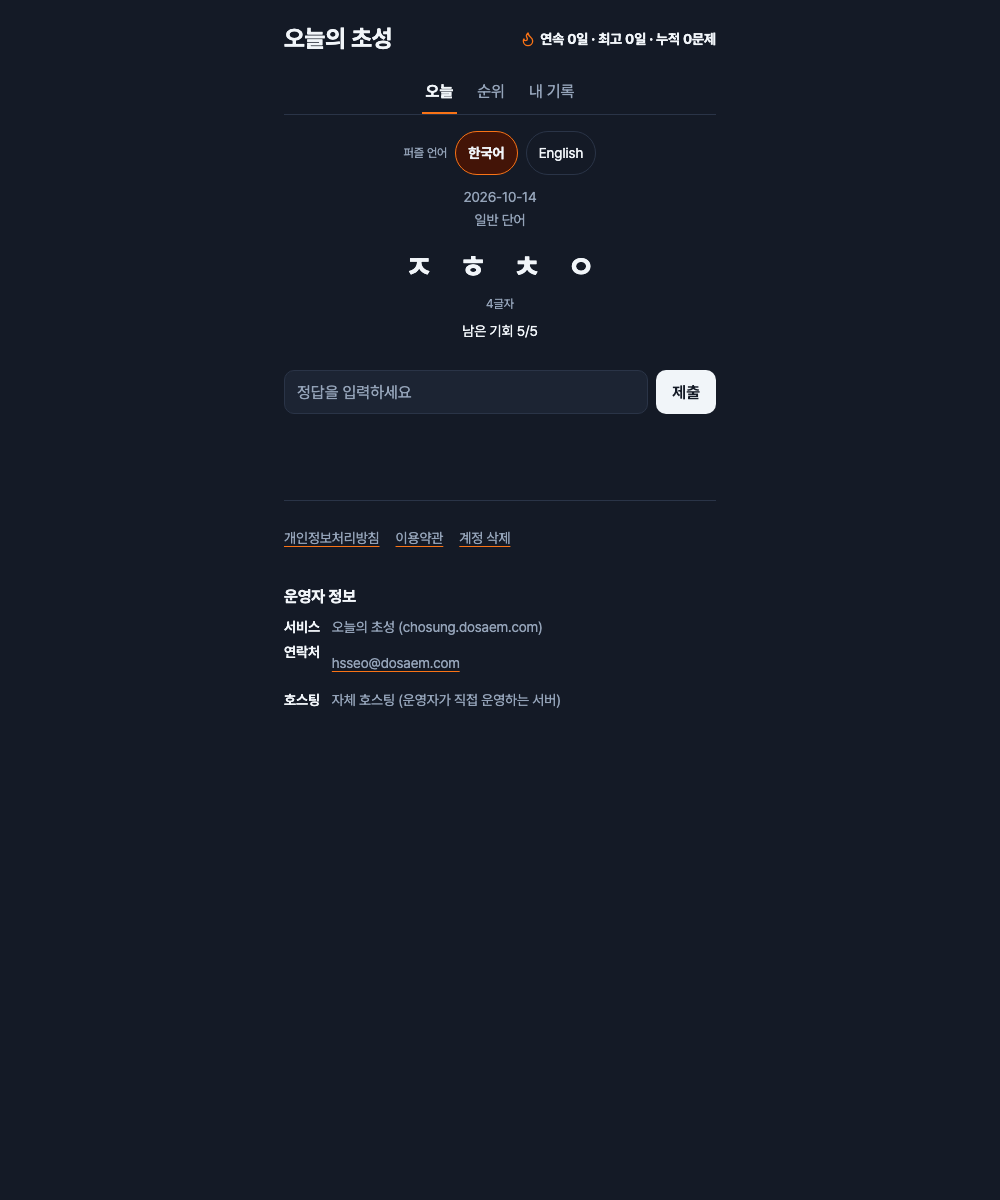
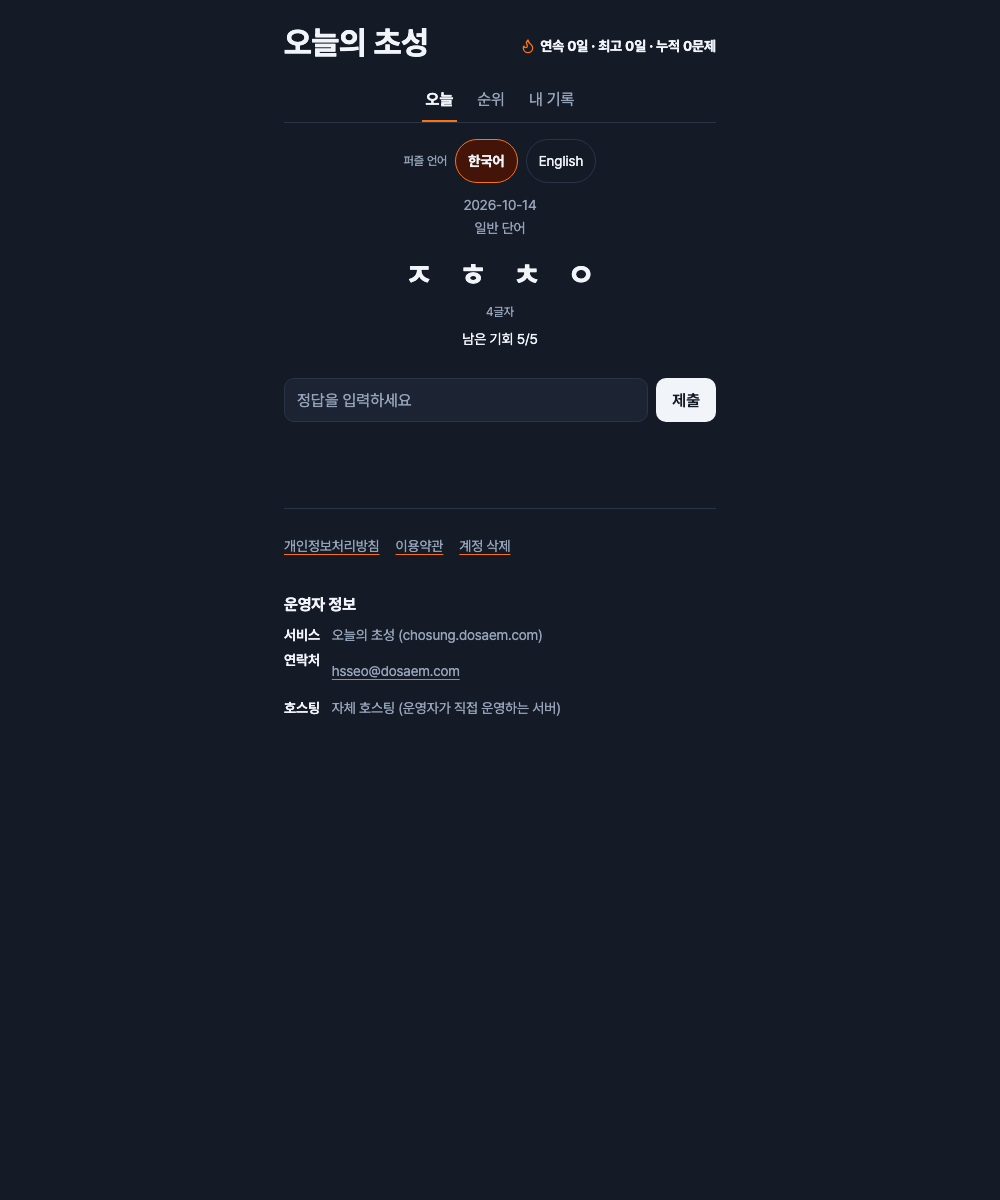
docs(18): 설계 판단·수동 체크리스트·출시 전 값 + 구현 증거
- README "### 18." 설계 판단: 다크 전용 CSS 를 안 쓰는 이유, 클래스 이름 =
  토큰 이름, 상태 카드를 하나로 둔 이유, 오프라인 판정이 둘을 보는 이유,
  KST 고정 오프셋 카운트다운, 섹션 토글이 버튼인 이유, 스토어 값이 비면
  아무것도 안 그리는 이유, 푸터가 16 의 조각만 include 하는 이유.
- README "웹 수동 체크리스트" 에 12~20 행 추가(섹션 토글·스켈레톤·오프라인·
  퍼즐 없음 카운트다운·앱 CTA·삭제 후 새 게스트 발급·다크모드·공유 텍스트·
  푸터). "티켓 18 범위라 아직 없다" 주석 제거.
- docs/RELEASE.md "### 18.": 스토어 URL·앱 ID·공식 배지 아트워크·공유 링크
  도메인 확인 체크박스.
- review/impl-evidence-18.md: 체크박스별 근거 표, 전체 스위트 1294 passed,
  ruff, impeccable detect 8회(라이트/다크 × ko/en + 모바일 폭) 0건과 대조군,
  헤드리스 스크린샷 2장, 역변이 확인 5건, 범위에서 뺀 것.
- review/detect-snapshot-18.py: 숨은 상태를 펼치고 다크 토큰을 올린 detect 판
  생성/정리. review/web-shots-18.mjs: CDP 로 라이트/다크 스크린샷.

디자인 훅이 잡은 flat-type-hierarchy 를 제목 24 → 32(`--font-size-2xl`)로
고쳐 1.6 배 / 1.25 배 단계를 만들었다. 스크린샷은 고친 뒤의 것이다.

diff --git a/web/static/style.css b/web/static/style.css
@@ -87,11 +87,14 @@ body:lang(en) {
   margin-bottom: var(--space-4);
 }
 
+/* 제목은 스케일의 맨 위(32)다. 24 로 두면 섹션 제목(20)과 1.2 배라 단계가 사실상
+   평평해지고(`impeccable` 디자인 훅의 flat-type-hierarchy), Editorial Light 는
+   타이포가 주인공인 방향이다 — 법적 문서 페이지의 `.doc-title` 도 같은 토큰이다. */
 .header h1 {
   margin: 0;
-  font-size: var(--font-size-xl);
+  font-size: var(--font-size-2xl);
   font-weight: 700;
-  line-height: 1.25;
+  line-height: 1.2;
 }
 
 /* 스트릭 글자는 `foreground` 다 — brand 를 글자색으로 쓰면 흰 면 위에서 3.6:1 로

diff --git a/web/templates/index.html b/web/templates/index.html
@@ -66,7 +66,7 @@
       </button>
     </nav>
 
-    <section class="section" data-section-panel="today">
+    <section id="today-section" class="section" data-section-panel="today">
       {# 퍼즐 언어 칩. UI 언어와 별개로, 어떤 언어의 문제를 풀지 고른다. #}
       <section class="language-chips" aria-label="{{ t.puzzle_language_label }}">
         <span class="language-label">{{ t.puzzle_language_label }}</span>

diff --git a/tests/test_web_design.py b/tests/test_web_design.py
@@ -17,7 +17,6 @@ import pytest
 
 REPO_ROOT = Path(__file__).resolve().parent.parent
 STYLE_CSS = REPO_ROOT / "web" / "static" / "style.css"
-TEMPLATE = REPO_ROOT / "web" / "templates" / "index.html"
 
 
 @pytest.fixture(scope="module")

diff --git a/review/impl-evidence-18.md b/review/impl-evidence-18.md
@@ -1,0 +1,236 @@
+# 티켓 18 구현 증거 — 웹 디자인 토큰 교체·다크모드·상태 4종·섹션 토글·앱 CTA·Smart App Banner·법적 링크
+
+- 브랜치: `dosaem/t18-web-design-cta-smart-banner`, 로컬 `main` = `055b56c`
+  "Merge 티켓 26" 위로 rebase(충돌 없음).
+- 커밋 2개: 구현+테스트 / 문서·증거 (`git log --oneline main..HEAD`).
+- 전용 테스트 자원: `TEST_DATABASE_URL=...chosung_daily_test_t18`,
+  `TEST_REDIS_URL=redis://localhost:6379/6`,
+  `TEST_MIGRATION_DATABASE_URL=...chosung_daily_test_t18_migrations`.
+  공용 테스트 DB(`chosung_daily_test`)·Redis DB 1 은 건드리지 않았다. 다른 워커의
+  컨테이너도 내리지 않았다(기존 `chosung-daily-mysql-1`·`-redis-1` 을 그대로 썼다).
+- 마이그레이션 없음(스키마 변경 없음). `flask db heads` = `d7a1f0ca0a29 (head)` 1줄.
+- 프로덕션에 닿는 행동 없음: `git push` 없음, 외부 서비스(Slack·Apple·Google·스토어·
+  AdMob) 호출 없음, `.env*` 미수정, 시크릿 값 없음. 스토어 링크·앱 ID 는 검증용
+  자리표시자(`id0000000000` 등)만 썼다.
+- 디스크: Flutter·네이티브 빌드 산출물을 만들지 않았다(웹 전용 티켓).
+
+## 1. 체크박스별 근거
+
+| 티켓 체크박스 | 무엇이 증명하는가 |
+|---|---|
+| 토큰 CSS 로 교체 — `primary-button`·`tile-empty`·`tile-correct` 토큰 이름 그대로, 그림자 없음, 480px 중앙 정렬, 다크모드 자동 | `tests/test_web_design.py::test_style_sheet_has_no_hex_colors_left`(파일 전체 hex 0개), `::test_style_sheet_has_no_shadows`, `::test_style_sheet_does_not_pin_its_own_color_scheme`, `::test_card_width_comes_from_the_shared_token`(`--content-max-width`, `420px` 없음), `::test_token_named_classes_use_the_token_of_the_same_name`(4건 parametrize), `::test_page_loads_the_pretendard_web_font` + §4 detect 라이트/다크 0건 + §5 스크린샷 2장 |
+| 상태 4종 — 스켈레톤·인라인 재시도·오프라인 배너(`navigator.onLine` + 요청 실패)·퍼즐 없음 카운트다운, 피드백 타일 색 + 아이콘/굵기 | 마크업: `::test_skeleton_is_rendered_before_the_puzzle_arrives`, `::test_offline_banner_sits_above_the_card`, `::test_inline_state_card_carries_a_retry_button_and_a_countdown_slot`, `::test_feedback_tiles_are_not_distinguished_by_color_alone`. 동작(번들 실행): `tests/test_web_js.py::test_the_skeleton_gives_way_to_the_puzzle`, `::test_a_request_that_cannot_leave_shows_the_banner_and_locks_the_input`, `::test_navigator_online_alone_raises_the_banner_before_any_request`, `::test_the_inline_retry_button_recovers_the_puzzle`, `::test_coming_back_online_reloads_without_asking`, `::test_a_day_without_a_puzzle_counts_down_to_kst_midnight`, `::test_the_countdown_follows_the_clock`, `::test_the_countdown_stops_when_the_puzzle_finally_arrives`, `::test_seconds_until_kst_midnight_is_computed_from_the_kst_day` |
+| 상단 "순위 · 내 기록" 섹션 토글, 백업/불러오기 패널 유지, pytest 렌더로 확인 | `::test_section_nav_toggles_three_sections_on_one_page`, `::test_only_the_today_section_is_visible_at_first`, `::test_active_section_link_is_marked_for_assistive_tech`, `::test_backup_and_restore_panels_moved_into_the_records_section` + 동작 `tests/test_web_js.py::test_the_top_links_show_exactly_one_section`, `::test_the_selected_section_is_announced_to_assistive_tech`. 기존 패널 계약은 `tests/test_web.py::test_backup_and_restore_panel_is_kept` 가 그대로 지킨다 |
+| 결과 화면 배지 2개 + `<meta name="apple-itunes-app">`, 설정값이 비면 미렌더(테스트 2건), 공유 텍스트에 `?utm_source=share` | `::test_store_badges_and_smart_app_banner_render_when_configured` / `::test_nothing_store_shaped_renders_while_the_app_is_not_on_the_stores` (요구된 2건), 추가로 `::test_each_badge_is_independent_of_the_other_platform`, `::test_the_app_cta_lives_in_the_result_section`. 공유 링크: `tests/test_web_js.py::test_the_share_text_ends_with_the_web_link` |
+| 푸터에 `/privacy`·`/terms`·`/account/delete` + 16 의 `legal/_business_info.html` 조각 | `::test_footer_links_the_three_legal_urls`(3건 parametrize), `::test_footer_includes_the_shared_business_info_fragment`, `::test_footer_business_info_follows_the_same_config_as_the_legal_pages`. 조각 자체는 손대지 않았다(`git diff main..HEAD -- web/templates/legal/` 가 비어 있다) |
+| 메인 페이지 `impeccable detect` 0건, 다크/라이트 헤드리스 스크린샷 | §4 (6회 스캔 전부 0건, 탐지기 대조군 7건) · §5 (`.scratch/store-launch/design/web-shots/home-light.png`·`home-dark.png`) |
+| pytest 렌더 테스트 + 수동 체크리스트(삭제 후 새 게스트 발급 포함) 갱신 | `tests/test_web_design.py` 26건 신규 + `tests/test_web_js.py` 13건 신규. 체크리스트는 README "웹 수동 체크리스트" 20행(12~20 이 이 티켓), `tests/test_web.py::test_manual_checklist_is_documented` 가 "삭제 후 새 게스트 발급" 을 포함한 14개 항목이 빠지지 않는지 지킨다 |
+
+코디네이터 메모(16 → 18 전이 포함)에 대한 답:
+
+| 지시 | 근거 |
+|---|---|
+| 17 이 남긴 중간 상태(기존 스타일 hex + `color-scheme: light`)를 반드시 해소 | `web/static/style.css` 를 통째로 다시 썼다. hex 0개·`color-scheme` 선언 0개를 테스트가 지킨다. 다크 전용 CSS 규칙은 **한 줄도 없다** — 변수만 쓰면 `tokens.css` 의 `prefers-color-scheme: dark` 가 따라온다 |
+| 라이트·다크 둘 다 detect 0건, 대비 4.5:1 | §4. 다크에서 실제로 한 건 잡혔고(입력 placeholder 3.4:1) 고친 뒤 0건이다 |
+| 웹 `app.js` 의 비동기 구조(`fetchJson`·세대·`languageWanted` 직렬화)를 깨지 마라 | 티켓 17 의 동작 테스트 26건(`tests/test_web_js.py` D-17-1~5 절)이 수정 없이 그대로 통과한다. `fetchJson` 에는 **세대 검사 뒤에** 네트워크 실패 분기만 더했고, 세대 검사 위치(본문 수신 후)는 그대로다 |
+| 푸터 사업자 정보는 16 의 조각 재사용 | `{% include "legal/_business_info.html" %}` 하나. 컨텍스트는 법적 문서와 같은 `app/web.py::_business_info` 가 만든다 |
+
+## 2. 테스트 — 전체 스위트
+
+```
+$ TEST_DATABASE_URL=mysql+pymysql://chosung:chosung@localhost:3306/chosung_daily_test_t18?charset=utf8mb4 \
+  TEST_REDIS_URL=redis://localhost:6379/6 \
+  TEST_MIGRATION_DATABASE_URL=mysql+pymysql://chosung:chosung@localhost:3306/chosung_daily_test_t18_migrations?charset=utf8mb4 \
+  uv run pytest -q
+1294 passed in 650.05s (0:10:50)        (pytest exit=0)
+```
+
+작업 시작 전 같은 명령의 기준선은 rebase **전** base(`45d790c` "Merge 티켓 16") 에서
+`1257 passed in 940.70s` 였다. 지금 base 는 `055b56c`(티켓 26 머지)라 그 사이 다른
+티켓이 더한 테스트도 1294 안에 들어 있다 — 이 티켓이 더한 건 아래 65건(그중 26 + 13 =
+39 건이 신규, 1 건은 아래 표의 사유로 삭제)이다.
+
+**중간에 한 번 77 errors 가 났고, 원인은 내 실수다.** 이 스위트가 도는 동안 같은
+테스트 DB 로 `pytest tests/test_web_design.py` 를 또 돌려서 `db.create_all()` 과
+`drop_all()` 이 겹쳤다(`(1684, "Table ... was skipped since its definition is being
+modified by concurrent DDL statement")`). 다른 워커와 DB 를 나눠 쓴 것과는 무관하고
+(내 전용 DB 안에서 내가 두 번 돈 것), 아무도 안 돌 때 다시 돌린 위 결과가 최종이다.
+
+이 티켓이 더한 테스트:
+
+```
+$ uv run pytest -q tests/test_web_design.py tests/test_web_js.py
+65 passed in 9.85s
+```
+
+바꾼 기존 테스트 3건과 이유:
+
+| 바꾼 것 | 이유 |
+|---|---|
+| `tests/test_web.py::test_new_elements_use_token_variables_not_new_hex` **삭제** | "17 이 새로 만든 선택자에는 hex 가 없다" 였다. 18 이 파일 전체를 토큰으로 옮겼으니 `test_web_design.py::test_style_sheet_has_no_hex_colors_left` 가 더 센 조건으로 대신한다(선택자 9개 → 파일 전체). 삭제 자리에 그 설명을 주석으로 남겼다 |
+| `tests/test_web_js.py::test_server_error_messages_are_shown_in_the_ui_language` 의 `today_no_puzzle` 기대값 | 퍼즐 없음 안내가 `#message` 에서 인라인 상태 카드로 옮겨가면서 문구도 `error_no_puzzle_today` → `no_puzzle_heading`("곧 새 퍼즐이 올라와요") 으로 바뀌었다(OVERRIDES §7). D-17-2 의 뜻("서버의 한국어 `message` 가 아니라 사전에서 고른다")은 그대로고, `::test_no_error_message_leaks_korean_into_the_english_ui` 가 계속 지킨다 |
+| `tests/js/error_message_language.mjs`·`stale_response_body.mjs` 가 읽는 요소 | 같은 이유로 `#message` → `#puzzle-state-text` |
+| `tests/js/harness.mjs` | 새 DOM(섹션 링크·패널, `window.addEventListener`, `navigator.onLine`, `disabled`, 새로 숨은 요소 5개)을 대역에 추가. `setInterval` 은 `unref()` 로 감쌌다 — 안 그러면 "퍼즐 없음" 으로 끝난 시나리오에서 node 가 1초 타이머를 붙들고 종료하지 않아 테스트가 타임아웃한다(실제로 겪음) |
+
+## 3. 린트
+
+```
+$ uv run ruff check .
+All checks passed!
+
+$ uv run ruff format --check tests/test_web_design.py tests/test_web_js.py \
+    review/detect-snapshot-18.py app/web.py app/utils/ui_strings.py
+5 files already formatted
+```
+
+`ruff format` 은 CI 가 돌리지 않고(`.github/workflows/ci.yml` 은 `ruff check .` 만 한다)
+레포에 이미 29개 파일이 포맷 미적용 상태라, **이 티켓이 새로 쓴 파일만** 포맷했다.
+레포 전체 포맷은 티켓 범위 밖이다(티켓 09 증거와 같은 판단).
+
+## 4. `impeccable detect` — 라이트·다크 × ko/en 전부 0건
+
+`detect` 는 Jinja 템플릿 파일을 직접 주면 `url_for` 를 못 풀어 CSS 를 못 읽는다(티켓
+01·09 메모). 그래서 개발 서버를 띄우고 **URL 로** 돌렸다.
+
+```
+$ FLASK_ENV=testing STORE_URL_IOS=... STORE_URL_ANDROID=... APP_STORE_ID=... \
+    uv run flask --app wsgi run --port 5118    # (백그라운드, 테스트 DB + Redis DB 6)
+
+$ impeccable detect "http://127.0.0.1:5118/?lang=ko"                    → exit=0 (출력 없음)
+$ impeccable detect "http://127.0.0.1:5118/?lang=en"                    → exit=0
+$ impeccable detect --viewport 390x844 "http://127.0.0.1:5118/?lang=ko" → exit=0
+```
+
+**숨은 상태와 다크 토큰은 라이브 URL 로는 못 본다.** detect 는 보이는 것만 보고
+`prefers-color-scheme` 을 바꿔 주지 않는데, 이 티켓이 만든 것 중 상당수는 JS 가 켜야
+보이거나(결과·앱 CTA·상태 카드·오프라인 배너·순위/내 기록 섹션) 다크에서만 색이
+바뀐다. 그래서 `review/detect-snapshot-18.py` 가 렌더된 `/` 를 네 벌로 떠 둔다:
+`hidden` 클래스를 떼어 숨은 상태를 전부 펼치고, JS 가 그리는 샘플 보드 한 줄
+(`tile-correct`/`tile-wrong`/`tile-empty`)을 끼우고, 다크 판은 `tokens.css` 의
+`prefers-color-scheme: dark` 블록을 **그 파일에서 읽어** `:root` 에 올린다(값을 스크립트에
+베껴 적으면 토큰이 바뀔 때 조용히 어긋난다). 스토어 링크·사업자 정보도 "등록 후" 상태로
+채워서 배지·Smart App Banner·운영자 정보 블록까지 스캔 대상에 넣었다.
+
+```
+$ uv run python review/detect-snapshot-18.py
+wrote web/static/_t18_ko_light.html / _t18_ko_dark.html / _t18_en_light.html / _t18_en_dark.html
+
+$ impeccable detect "http://127.0.0.1:5118/static/_t18_ko_light.html"   → exit=0
+$ impeccable detect "http://127.0.0.1:5118/static/_t18_ko_dark.html"    → exit=0
+$ impeccable detect "http://127.0.0.1:5118/static/_t18_en_light.html"   → exit=0
+$ impeccable detect "http://127.0.0.1:5118/static/_t18_en_dark.html"    → exit=0
+$ impeccable detect --viewport 390x844 ".../static/_t18_ko_dark.html"   → exit=0
+```
+
+스냅샷 4개는 확인 직후 `--clean` 으로 지웠다(커밋에 없다). 스크립트는 남겼다 — 다음
+웹 티켓이 같은 방식으로 다시 돌릴 수 있어야 한다.
+
+**처음부터 0건이었던 게 아니다.** 다크 판 첫 스캔에서 실제로 한 건 잡혔다:
+
+```
+  [low-contrast] placeholder "정답을 입력하세요" 3.4:1 (need 4.5:1) — text #757575 on #1c2433
+1 anti-pattern found.   (exit=2)
+```
+
+브라우저 기본 placeholder 색이 다크 면 위에서 AA 미달이었다. `::placeholder` 를
+`--color-muted-foreground` 로 올려 고쳤다(라이트 `#57534e` on `#ffffff` ≈ 7.4:1 /
+다크 `#94a3b8` on `#1c2433` ≈ 6.4:1). 같은 명령이 그 뒤로 0건이다.
+
+**detect 가 안 보는 것을 디자인 훅이 하나 더 잡았다.** `impeccable` 의 편집 훅이
+`web/templates/index.html` 에 `flat-type-hierarchy` 를 올렸다 — 제목 24 / 섹션 제목 20
+/ 본문 16 이라 단계마다 1.25 배가 안 됐다. 제목을 스케일 맨 위(`--font-size-2xl`, 32)로
+올려 1.6 배 / 1.25 배로 벌렸다. 법적 문서 페이지의 `.doc-title` 과 같은 토큰이고,
+OVERRIDES §3 스케일(12/14/16/20/24/32) 안이다. 위 스크린샷은 고친 뒤의 것이다.
+
+**"출력이 비었다" 가 "탐지기가 안 돌았다" 가 아님**을 대조군으로 확인했다 — 폐기된 V2
+목업(TOOLS.md 에 7건으로 기록된 파일):
+
+```
+$ impeccable detect .scratch/store-launch/design/archive/v2_softdark_home.html
+  [low-contrast] 2.8:1 (need 4.5:1) — text #f1f5f9 on #3fa66b   (×4)
+  [low-contrast] 2.5:1 (need 4.5:1) — text #f1f5f9 on #f0795a
+  [cramped-padding] <div> "flex": children flush against bg on all sides (no inset)
+  [overused-font] Primary font: inter
+7 anti-patterns found.   (exit=2)
+```
+
+운영자 페이지(`/admin`) detect 는 이 티켓 범위가 아니다(계획 리뷰 r1 P1-05 — 15·16 이
+각자 책임).
+
+## 5. 다크모드 — 헤드리스 스크린샷 (사람 확인 아님)
+
+```
+$ "/Applications/Google Chrome.app/Contents/MacOS/Google Chrome" --headless=new \
+    --remote-debugging-port=9333 --user-data-dir=<temp> about:blank &
+$ node review/web-shots-18.mjs http://127.0.0.1:9333 "http://127.0.0.1:5118/?lang=ko" \
+    .scratch/store-launch/design/web-shots
+wrote .scratch/store-launch/design/web-shots/home-light.png (50053 bytes)
+wrote .scratch/store-launch/design/web-shots/home-dark.png (50220 bytes)
+```
+
+스크립트는 **먼저 한 번 열어 `localStorage.clear()` 를 하고 다시 연다.** 저장된 게스트
+토큰이 남아 있으면 그 게스트로 이어지는데, 테스트 DB 는 스위트가 끝날 때 비워지므로 죽은
+토큰이면 홈이 아니라 "기록을 확인할 수 없어요 + 다시 시도" 오류 카드가 찍힌다 — 실제로 한
+번 그렇게 찍혀서 고쳤다(인라인 오류 카드가 다크에서 제대로 렌더된다는 건 그때 같이 봤다).
+
+`prefers-color-scheme` 은 CDP `Emulation.setEmulatedMedia` 로 바꿨다 — 크롬 플래그
+`--force-dark-mode` 는 브라우저가 색을 **임의로 반전**시키는 기능이라 우리 다크 토큰을
+보는 게 아니다. 뷰포트 1000×1200, 전체 페이지 캡처.
+
+두 장에서 확인되는 것: 배경·글자·헤어라인·칩·주 버튼·푸터가 전부 토큰을 따라 바뀌고
+(라이트 `#FAFAF9`/`#0F172A` → 다크 `#141A26`/`#F1F5F9`, 주 버튼은 검정 면 → 밝은 면 +
+어두운 글자), 카드 폭이 두 모드 모두 480px 중앙 정렬이고, 활성 섹션 링크의 brand 밑줄과
+스트릭 불꽃(Lucide `flame`)만 오렌지다. 수동 토글 UI 는 없다(OVERRIDES §9).
+
+## 6. 테스트가 실제로 잡는지 — 역변이 확인 5건
+
+테스트를 먼저 쓴 쪽(`tests/test_web_design.py` 의 토큰·마크업 계약)과, 번들을 돌려
+동작을 고정한 쪽(`tests/test_web_js.py` 의 상태 전환)이 섞여 있다. 어느 쪽이든
+"구현을 되돌리면 빨개지는가" 를 직접 확인했다 — 아래는 구현을 일부러 망가뜨리고 해당
+테스트만 돌린 결과다(전부 원상복구, `git status` clean).
+
+| 망가뜨린 것 | 결과 |
+|---|---|
+| `style.css` 의 `background: var(--color-background)` → `#fafaf9` | `test_style_sheet_has_no_hex_colors_left` **FAILED** |
+| 템플릿의 `{% if app_store_id %}` 가드 제거 | `test_nothing_store_shaped_renders_while_the_app_is_not_on_the_stores` **FAILED** |
+| `fetchJson` 의 `.catch(() => null)` + `offline: true` 분기 제거 | `test_a_request_that_cannot_leave_shows_the_banner_and_locks_the_input` **ERROR**(시나리오가 던진다 = 지금 코드가 그 예외를 막고 있다는 뜻) |
+| `buildShareText` 의 `lines.push("", SHARE_URL)` 제거 | `test_the_share_text_ends_with_the_web_link` **FAILED** |
+| `showSection` 이 모든 패널을 보이게 | `test_the_top_links_show_exactly_one_section` **FAILED** |
+
+## 7. 설계 판단 (요약 — 본문은 README "### 18.")
+
+- **다크 전용 CSS 를 한 줄도 쓰지 않는다.** 변수만 쓰면 `tokens.css` 의 다크 블록이
+  따라온다. 다크 규칙을 따로 쓰기 시작하면 라이트/다크가 두 벌로 갈라진다.
+- **클래스 이름 = 토큰 이름.** `tile-empty`/`tile-correct`/`primary-button`. 마크업만
+  보고 어느 토큰인지 안다. 대가는 `app.js` 와 CSS 를 같이 고쳐야 한다는 것.
+- **상태 카드는 하나.** 오류와 "퍼즐 없음" 은 문구·카운트다운만 다르다. 카드를 나누면
+  "지금 어느 카드가 떠 있나" 를 양쪽에서 지워야 하고 둘이 겹치는 조합이 생긴다.
+- **오프라인은 `navigator.onLine` 과 요청 실패를 둘 다 본다.** `onLine` 은 죽은 Wi-Fi 도
+  `true` 고, 요청 실패는 서버 문제일 수도 있다. 플레이어가 할 일은 같아서 한 배너로 묶고,
+  복구는 `online` 이벤트(자동 재조회)와 재시도 버튼 둘 다 둔다.
+- **`fetchJson` 이 네트워크 실패를 삼킨다.** 던지면 부른 쪽마다 `try` 를 달아야 하고,
+  안 달면 스켈레톤이 멈춘 화면이 된다 — 그 상태를 보여주는 게 US 8 이다.
+- **카운트다운은 고정 오프셋.** KST 는 서머타임이 없어 `(지금 + 9h) % 24h` 하나면 된다.
+- **섹션 토글은 버튼 + `aria-pressed`.** 주소가 안 바뀌므로 링크가 아니고, 색·굵기를 못
+  봐도 선택이 읽힌다.
+- **스토어 값이 비면 아무것도 안 그린다.** 빈 `app-id=` 는 Safari 가 "앱 없음" 배너를
+  그리고, 없는 앱을 권하는 CTA 는 심사에서 문제가 된다.
+
+## 8. 범위에서 뺀 것 · 사람 몫
+
+- **"내 기록" 섹션에 7일 그리드를 넣지 않았다.** SCREENS S4 의 7일 그리드는 앱 화면이고,
+  웹에 들이려면 `/me/history` 조회를 새로 붙여야 한다 — 티켓 체크박스가 요구한 건
+  "섹션 토글 + 백업/불러오기 패널 유지" 다. 연속 기록 숫자는 머리말 StreakBadge 가 늘
+  보여주고 있어 섹션에서 다시 적지도 않았다.
+- **스토어 배지는 아직 텍스트 버튼이다.** Apple/Google 의 공식 배지 이미지는 각 사의
+  마케팅 가이드라인(크기·여백·언어별 파일)에 묶여 있어 레포에 임의로 그려 넣지 않았다.
+  교체 체크박스는 `docs/RELEASE.md` "### 18." 에 있다. "설정값이 비면 안 그린다" 규칙은
+  교체 후에도 그대로다.
+- **타일 크기 규칙(5글자 이하 48 / 6~8글자 40, OVERRIDES §4)은 17 이 둔 그대로다.**
+  이 티켓은 색·간격·폭의 토큰 전환이고, 글자 수에 따른 타일 크기는 레이아웃 규칙이라
+  건드리지 않았다. 지금은 문제 행이 48, 시도 행이 40 이다.
+- **브라우저로 손으로 돌려본 왕복은 없다.** 헤드리스 스크린샷 2장과 detect 6회가
+  이 티켓의 시각 근거고, Slow 3G·DevTools Offline·iOS Safari Smart App Banner 같은
+  실제 왕복은 README "웹 수동 체크리스트" 12~20 행으로 남겼다.
+- **출시 전 사람이 채울 값**: `docs/RELEASE.md` "### 18."(`STORE_URL_IOS`/
+  `STORE_URL_ANDROID`/`APP_STORE_ID`, 공식 배지 아트워크, 공유 링크 도메인 확인).
